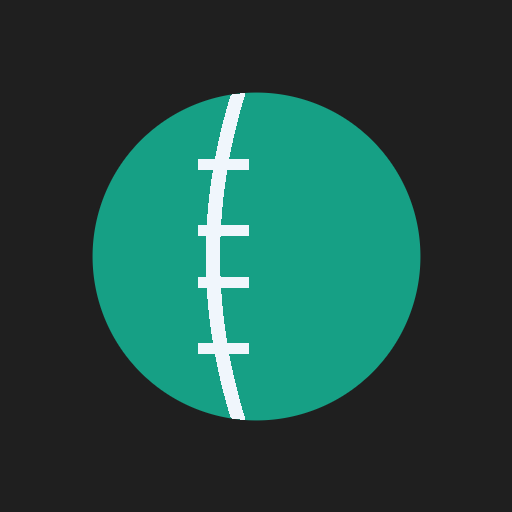
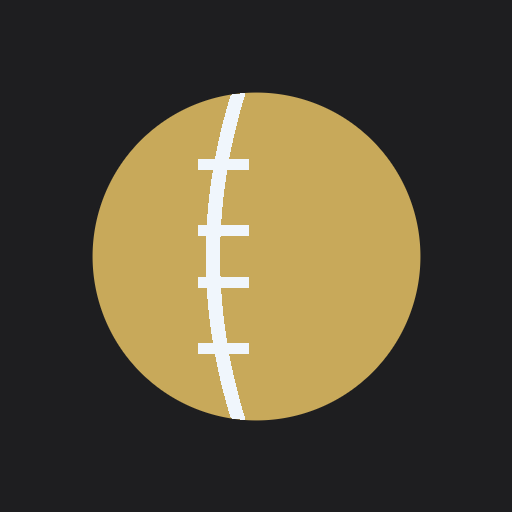
Apply graphite + champagne-gold design system, compact scoring console
Replace the color/typography tokens with the matte-graphite background
(#1E1E20) and champagne-gold accent (#C8A95A) spec, fix text contrast on
gold buttons/segments (dark text instead of white), switch press feedback
to a tactile scale (1 -> 0.94 -> 1) instead of opacity, bump the score
font to 40px semibold, and rework the scoring pad from oversized tiles
back to compact 56x56 square run buttons with extras as lightweight chips
and de-emphasized Undo/Edit actions. Update the logo, favicon, and PWA
icons to match the new palette.

Changed region(s): [[0.1562, 0.1562, 0.8438, 0.8438]]

diff --git a/src/components/ScoringPad.tsx b/src/components/ScoringPad.tsx
@@ -20,15 +20,15 @@ const WICKET_TYPES: { type: WicketType; label: string }[] = [
 
 type SheetId = 'wide' | 'noball' | 'bye' | 'legbye' | 'wicket' | 'edit';
 
-// Tactile filled "tile" — solid raised surface, hairline edge, press feedback.
+// Compact square control — solid raised surface, hairline edge, tactile press feedback.
 const tile =
-  'flex items-center justify-center rounded-xl border border-white/[0.06] bg-surface2 font-semibold text-fg transition duration-150 active:scale-[0.96] active:brightness-110';
+  'flex items-center justify-center rounded-[10px] border border-line-strong bg-surface2 font-semibold text-fg transition duration-100 active:scale-[0.94]';
 
 function NumGrid({ values, onPick, cols = 'grid-cols-3' }: { values: number[]; onPick: (n: number) => void; cols?: string }) {
   return (
-    <div className={`grid ${cols} gap-2.5`}>
+    <div className={`grid ${cols} gap-2`}>
       {values.map((n) => (
-        <button key={n} onClick={() => onPick(n)} className={`${tile} h-14 text-xl`}>
+        <button key={n} onClick={() => onPick(n)} className={`${tile} h-12 text-body`}>
           {n}
         </button>
       ))}
@@ -56,16 +56,16 @@ export default function ScoringPad({ match, state }: { match: Match; state: Inni
   const lastBall = active?.innings.balls.at(-1);
 
   return (
-    <div className="space-y-2.5 px-4 pb-6 pt-3">
-      {/* runs — large tactile tiles, boundaries tinted orange */}
-      <div className="grid grid-cols-3 gap-2.5">
+    <div className="space-y-2 px-4 pb-6 pt-3">
+      {/* runs — compact square buttons, boundaries tinted gold */}
+      <div className="flex justify-between gap-2">
         {RUN_VALUES.map((n) => {
           const boundary = n === 4 || n === 6;
           return (
             <button
               key={n}
               onClick={() => onRun(n)}
-              className={`${tile} h-[60px] text-[26px] font-bold ${boundary ? '!border-boundary/35 !bg-boundary/15 !text-boundary' : ''}`}
+              className={`${tile} h-14 w-14 text-xl ${boundary ? '!border-boundary/40 !bg-boundary/15 !text-boundary' : ''}`}
             >
               {n}
             </button>
@@ -73,29 +73,33 @@ export default function ScoringPad({ match, state }: { match: Match; state: Inni
         })}
       </div>
 
-      {/* extras */}
-      <div className="grid grid-cols-4 gap-2.5">
+      {/* extras — compact chips, lighter visual weight */}
+      <div className="grid grid-cols-4 gap-2">
         {(['wide', 'noball', 'bye', 'legbye'] as const).map((e) => (
-          <button key={e} onClick={() => setSheet(e)} className={`${tile} h-12 text-body font-medium !text-fg-muted`}>
+          <button
+            key={e}
+            onClick={() => setSheet(e)}
+            className="h-9 rounded-md border border-line-strong bg-surface text-caption font-medium text-fg-muted transition duration-100 active:scale-[0.95]"
+          >
             {{ wide: 'Wd', noball: 'Nb', bye: 'Bye', legbye: 'Lb' }[e]}
           </button>
         ))}
       </div>
 
-      {/* wicket */}
+      {/* wicket — distinct but not oversized */}
       <button
         onClick={() => setSheet('wicket')}
-        className="flex h-12 w-full items-center justify-center rounded-xl border border-error/40 bg-error/15 text-base font-semibold text-error transition duration-150 active:scale-[0.98] active:brightness-110"
+        className="flex h-11 w-full items-center justify-center rounded-[10px] border border-error/40 bg-error/10 text-body font-semibold text-error transition duration-100 active:scale-[0.97]"
       >
         Wicket
       </button>
 
-      {/* undo / edit */}
-      <div className="grid grid-cols-2 gap-2.5">
-        <button onClick={undoLastBall} className={`${tile} h-12 text-body font-medium`}>
+      {/* undo / edit — secondary, de-emphasized */}
+      <div className="flex justify-end gap-4 pt-1">
+        <button onClick={undoLastBall} className="text-caption font-medium text-fg-muted transition duration-100 active:opacity-60">
           Undo
         </button>
-        <button onClick={() => setSheet('edit')} className={`${tile} h-12 text-body font-medium`}>
+        <button onClick={() => setSheet('edit')} className="text-caption font-medium text-fg-muted transition duration-100 active:opacity-60">
           Edit last
         </button>
       </div>
@@ -110,7 +114,7 @@ export default function ScoringPad({ match, state }: { match: Match; state: Inni
                 recordBall({ batterRuns: shotForRuns!, shot: s.id });
                 setShotForRuns(null);
               }}
-              className="rounded-xl border border-white/[0.06] bg-surface2 px-2 py-2.5 text-body text-fg transition duration-150 active:scale-[0.96] active:brightness-110"
+              className="rounded-[10px] border border-line-strong bg-surface2 px-2 py-2.5 text-body text-fg transition duration-100 active:scale-[0.95]"
             >
               {s.label}
             </button>
@@ -217,8 +221,8 @@ function WicketSheet({
             <button
               key={w.type}
               onClick={() => setType(w.type)}
-              className={`rounded-xl border px-2 py-2.5 text-body transition duration-150 active:scale-[0.97] ${
-                type === w.type ? 'border-error/50 bg-error/15 text-error' : 'border-white/[0.06] bg-surface2 text-fg'
+              className={`rounded-[10px] border px-2 py-2.5 text-body transition duration-100 active:scale-[0.95] ${
+                type === w.type ? 'border-error/50 bg-error/15 text-error' : 'border-line-strong bg-surface2 text-fg'
               }`}
             >
               {w.label}
@@ -234,7 +238,7 @@ function WicketSheet({
                 <button
                   key={id}
                   onClick={() => setDismissed(id!)}
-                  className={`rounded-xl border px-3 py-2.5 text-body transition active:scale-[0.97] ${dismissedId === id ? 'border-accent bg-accent/15 text-fg' : 'border-white/[0.06] bg-surface2 text-fg'}`}
+                  className={`rounded-[10px] border px-3 py-2.5 text-body transition duration-100 active:scale-[0.95] ${dismissedId === id ? 'border-accent bg-accent/15 text-fg' : 'border-line-strong bg-surface2 text-fg'}`}
                 >
                   {playerName(match, id)}
                 </button>

diff --git a/tailwind.config.js b/tailwind.config.js
@@ -4,30 +4,31 @@ export default {
   theme: {
     extend: {
       colors: {
-        // neutral dark grey (no blue tint)
-        bg: '#161616',
-        surface: '#1F1F1F',
-        surface2: '#272727',
+        // matte graphite
+        bg: '#1E1E20',
+        surface: '#2A2A2D',
+        surface2: '#343438', // elevated surface
         line: {
-          DEFAULT: 'rgba(255,255,255,0.08)', // subtle divider
-          strong: 'rgba(255,255,255,0.14)', // control border
+          DEFAULT: 'rgba(255,255,255,0.06)', // soft grey divider
+          strong: 'rgba(255,255,255,0.12)', // control border
         },
-        // calm corporate teal accent
+        // warm champagne gold accent
         accent: {
-          DEFAULT: '#16A085',
-          hover: '#19B394',
+          DEFAULT: '#C8A95A',
+          hover: '#D9BA6A',
+          pressed: '#B8933E',
         },
-        // muted orange for boundary highlights
+        // boundaries share the gold accent (no second colour)
         boundary: {
-          DEFAULT: '#D9803B',
-          hover: '#E5934F',
+          DEFAULT: '#C8A95A',
+          hover: '#D9BA6A',
         },
-        success: '#2EA043',
-        error: '#F85149',
+        success: '#46B97A',
+        error: '#D9534F',
         fg: {
-          DEFAULT: '#F2F2F3', // primary text (neutral)
-          muted: '#9B9B9D', // secondary text (neutral grey)
-          faint: '#6B6B6D', // tertiary / placeholder
+          DEFAULT: '#F6F6F6', // primary text
+          muted: '#A3A3A8', // secondary text
+          faint: '#6E6E73', // tertiary / placeholder
         },
       },
       fontFamily: {
@@ -43,13 +44,14 @@ export default {
         section: ['16px', { lineHeight: '22px' }],
         title: ['22px', { lineHeight: '28px', fontWeight: '600' }],
         team: ['15px', { lineHeight: '20px', fontWeight: '600' }],
-        score: ['32px', { lineHeight: '34px', fontWeight: '700' }],
+        score: ['40px', { lineHeight: '42px', fontWeight: '600' }],
       },
       borderRadius: {
-        lg: '8px',
+        lg: '10px',
         md: '6px',
       },
       transitionDuration: {
+        100: '100ms',
         150: '150ms',
       },
       keyframes: {

diff --git a/src/index.css b/src/index.css
@@ -31,11 +31,11 @@
   /* ---- buttons (48px, 10px radius) ---- */
   .btn {
     @apply inline-flex h-12 select-none items-center justify-center gap-2 rounded-[10px]
-           px-4 text-body font-medium transition duration-150 active:opacity-80
+           px-4 text-body font-medium transition duration-100 active:scale-[0.94]
            disabled:pointer-events-none disabled:opacity-40;
   }
   .btn-primary {
-    @apply bg-accent text-white hover:bg-accent-hover;
+    @apply bg-accent text-[#1E1E20] hover:bg-accent-hover active:bg-accent-pressed;
   }
   .btn-secondary {
     @apply border border-line-strong bg-surface text-fg hover:bg-surface2;
@@ -50,7 +50,7 @@
     @apply h-9 px-3 text-caption;
   }
 
-  /* ---- inputs (44px, 8px radius) ---- */
+  /* ---- inputs (44px, 10px radius) ---- */
   .input {
     @apply h-11 w-full rounded-lg border border-line-strong bg-surface px-3 text-body
            text-fg outline-none transition duration-150 placeholder:text-fg-faint
@@ -68,13 +68,13 @@
   }
   .seg-item {
     @apply flex-1 rounded-md px-3 py-2 text-center text-body font-medium text-fg-muted
-           transition duration-150 active:opacity-80;
+           transition duration-100 active:scale-[0.96];
   }
   .seg-item-active {
     @apply bg-surface2 text-fg;
   }
   .seg-item-active-accent {
-    @apply bg-accent text-white;
+    @apply bg-accent text-[#1E1E20];
   }
 
   /* ---- dense list row (16px h-pad, 12px v-pad) ---- */

diff --git a/src/components/ui.tsx b/src/components/ui.tsx
@@ -139,7 +139,7 @@ export function Switch({ checked, onChange }: { checked: boolean; onChange: (v: 
 }
 
 export function Stepper({ value, onChange, min = 0, max = 99 }: { value: number; onChange: (v: number) => void; min?: number; max?: number }) {
-  const btn = 'flex h-8 w-8 items-center justify-center rounded-md border border-line-strong text-fg-muted active:opacity-80 disabled:opacity-30';
+  const btn = 'flex h-8 w-8 items-center justify-center rounded-md border border-line-strong text-fg-muted transition duration-100 active:scale-[0.92] disabled:opacity-30';
   return (
     <div className="flex items-center gap-2.5">
       <button className={btn} disabled={value <= min} onClick={() => onChange(Math.max(min, value - 1))}>−</button>

diff --git a/src/components/Scorecard.tsx b/src/components/Scorecard.tsx
@@ -14,7 +14,7 @@ export default function Scoreboard({ match, state }: { match: Match; state: Inni
         <div className="min-w-0">
           <div className="truncate text-caption font-medium uppercase tracking-wide text-fg-muted">{battingTeam.name}</div>
           <div className="nums mt-0.5 leading-none text-fg">
-            <span className="text-[30px] font-bold">{state.totalRuns}</span>
+            <span className="text-score">{state.totalRuns}</span>
             <span className="text-[18px] font-semibold text-fg-muted">/{state.wickets}</span>
           </div>
         </div>

diff --git a/src/components/Logo.tsx b/src/components/Logo.tsx
@@ -3,7 +3,7 @@
 export function BallO({ size = 26 }: { size?: number }) {
   return (
     <svg width={size} height={size} viewBox="0 0 32 32" aria-hidden className="inline-block align-middle">
-      <circle cx="16" cy="16" r="15" fill="#16A085" />
+      <circle cx="16" cy="16" r="15" fill="#C8A95A" />
       <path d="M16 1.5 Q 10.5 16 16 30.5" fill="none" stroke="#fff" strokeWidth="1.5" strokeOpacity="0.9" />
       <g stroke="#fff" strokeWidth="1.3" strokeOpacity="0.85" strokeLinecap="round">
         <line x1="12.6" y1="6.6" x2="16.4" y2="5.9" />

diff --git a/index.html b/index.html
@@ -4,7 +4,7 @@
     <meta charset="UTF-8" />
     <link rel="icon" type="image/svg+xml" href="/favicon.svg" />
     <meta name="viewport" content="width=device-width, initial-scale=1.0, maximum-scale=1.0, user-scalable=no, viewport-fit=cover" />
-    <meta name="theme-color" content="#161616" />
+    <meta name="theme-color" content="#1E1E20" />
     <link rel="preconnect" href="https://fonts.googleapis.com" />
     <link rel="preconnect" href="https://fonts.gstatic.com" crossorigin />
     <link

diff --git a/vite.config.ts b/vite.config.ts
@@ -13,8 +13,8 @@ export default defineConfig({
         name: 'MatchOn',
         short_name: 'MatchOn',
         description: 'MatchOn by SymPal games — ball-by-ball cricket scoring with live shareable links',
-        theme_color: '#161616',
-        background_color: '#161616',
+        theme_color: '#1E1E20',
+        background_color: '#1E1E20',
         display: 'standalone',
         start_url: '/',
         icons: [
